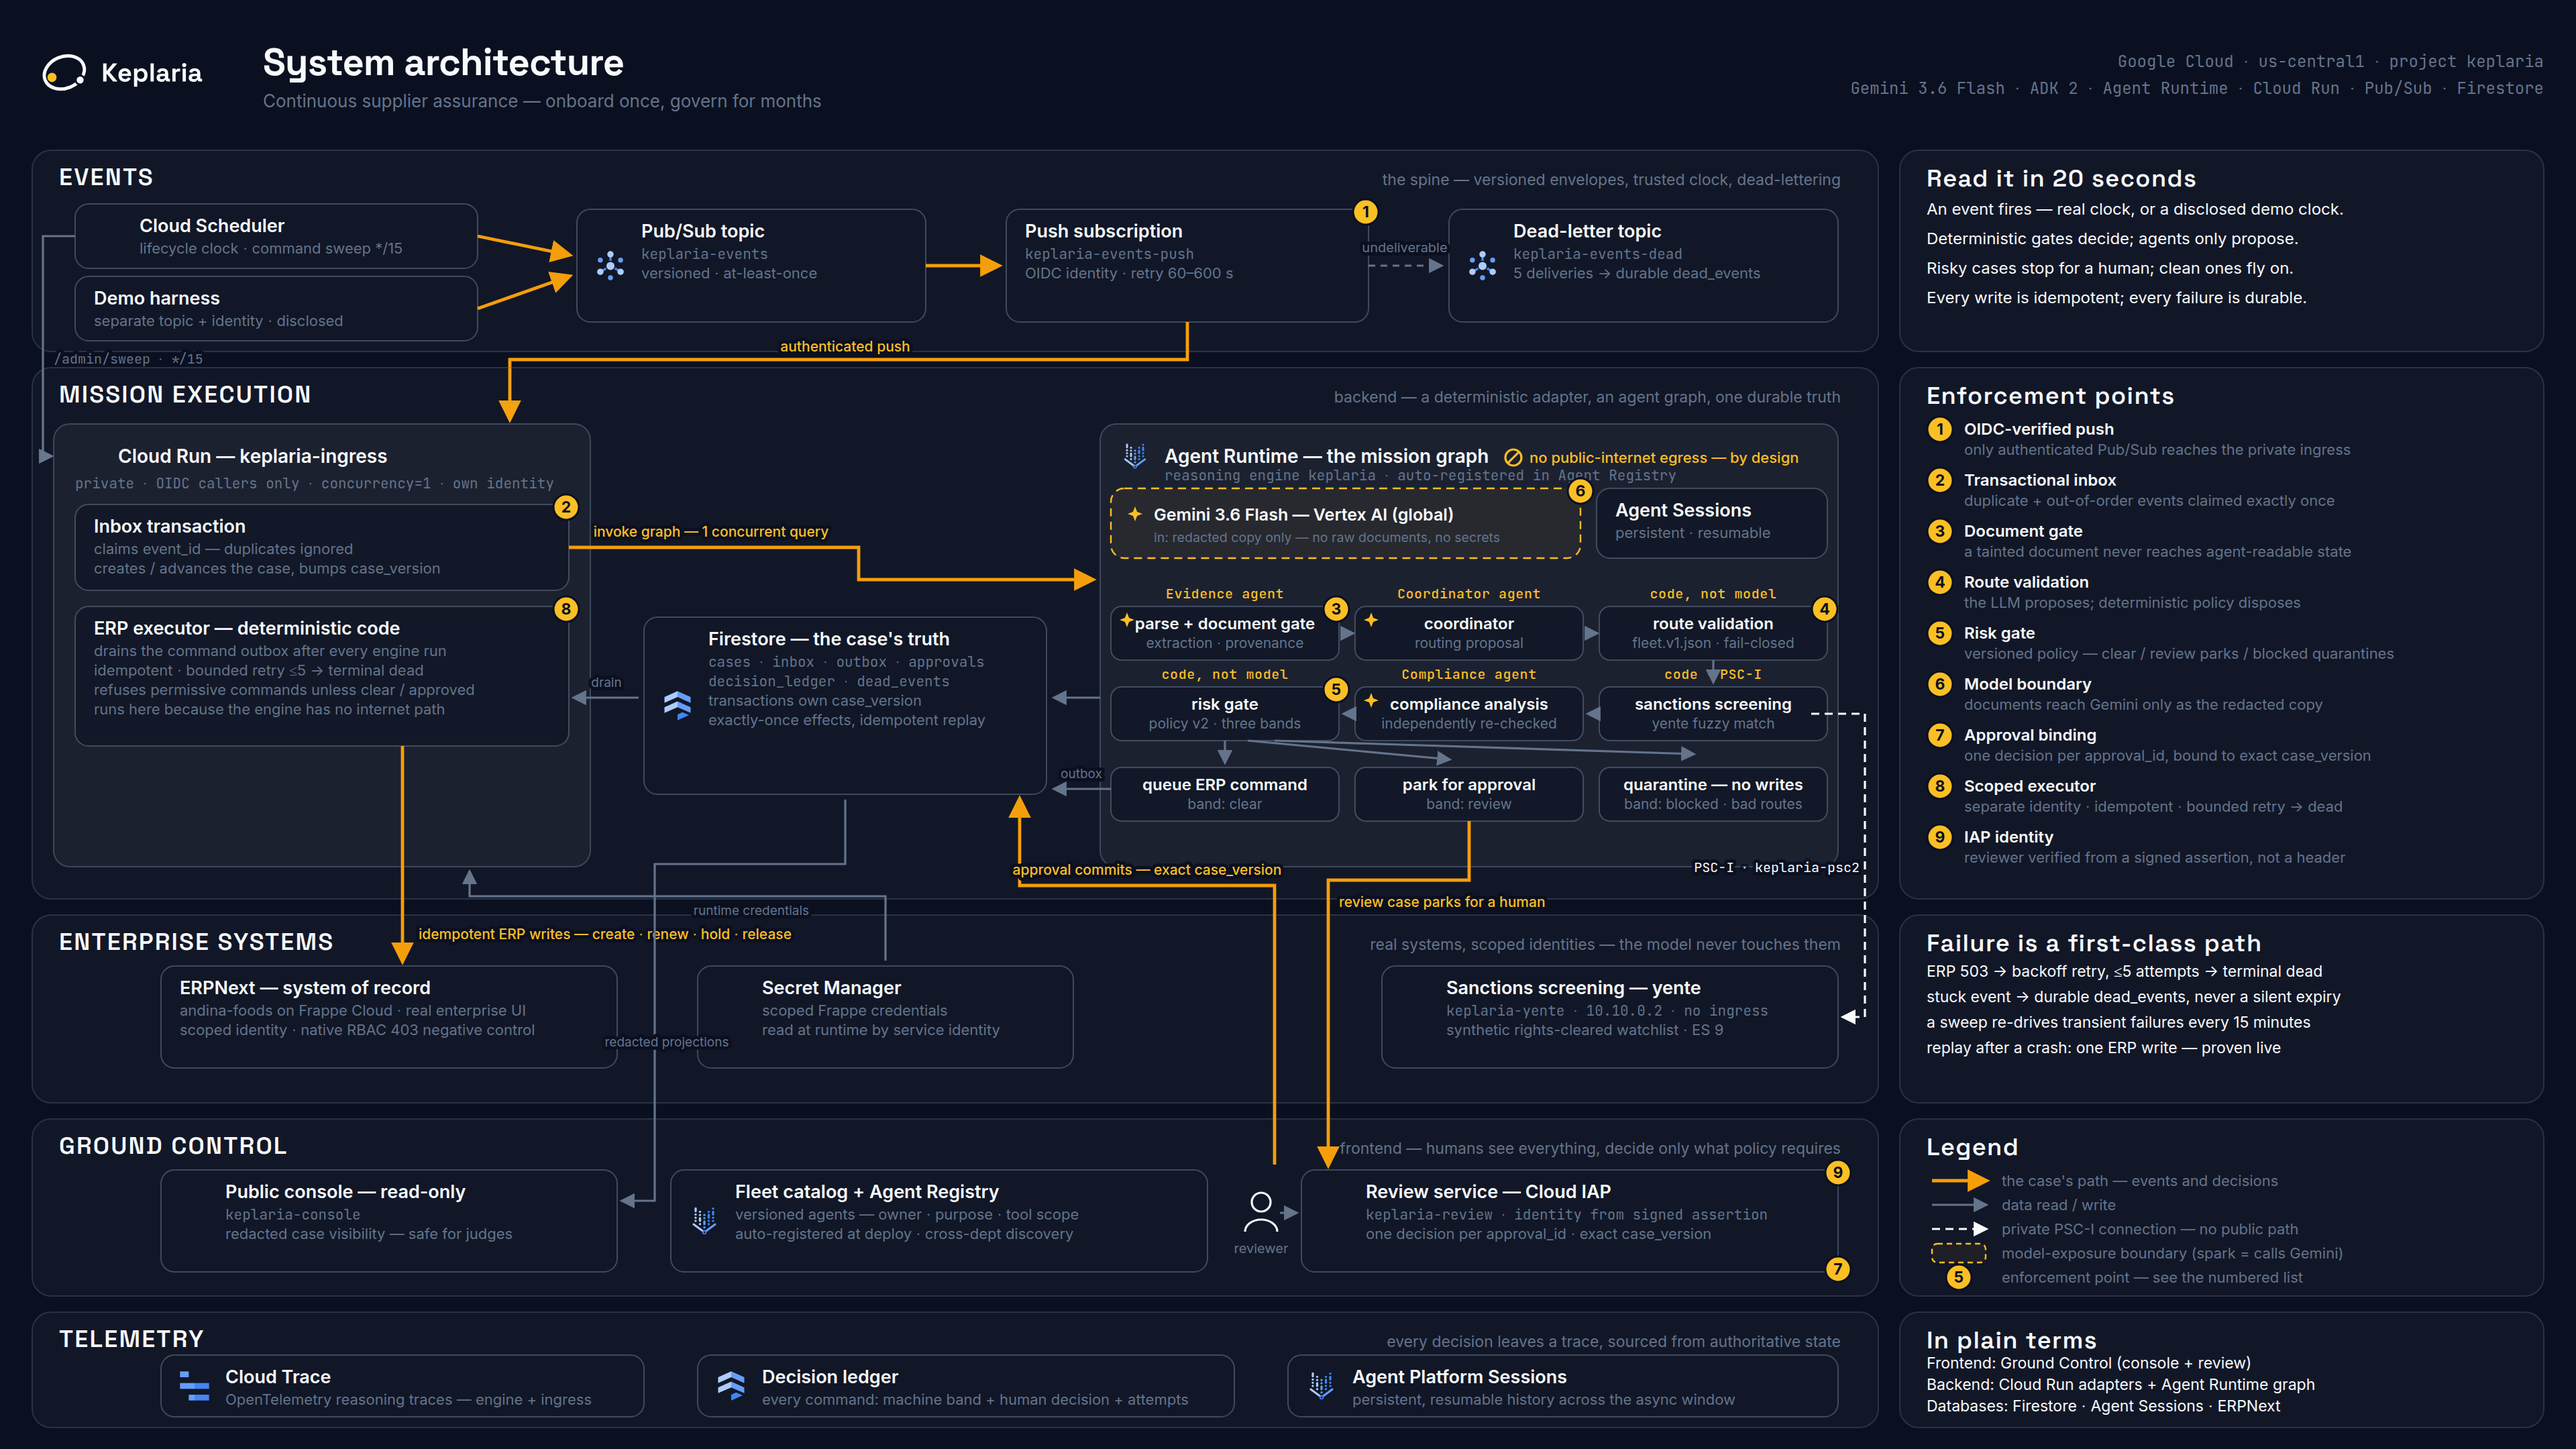
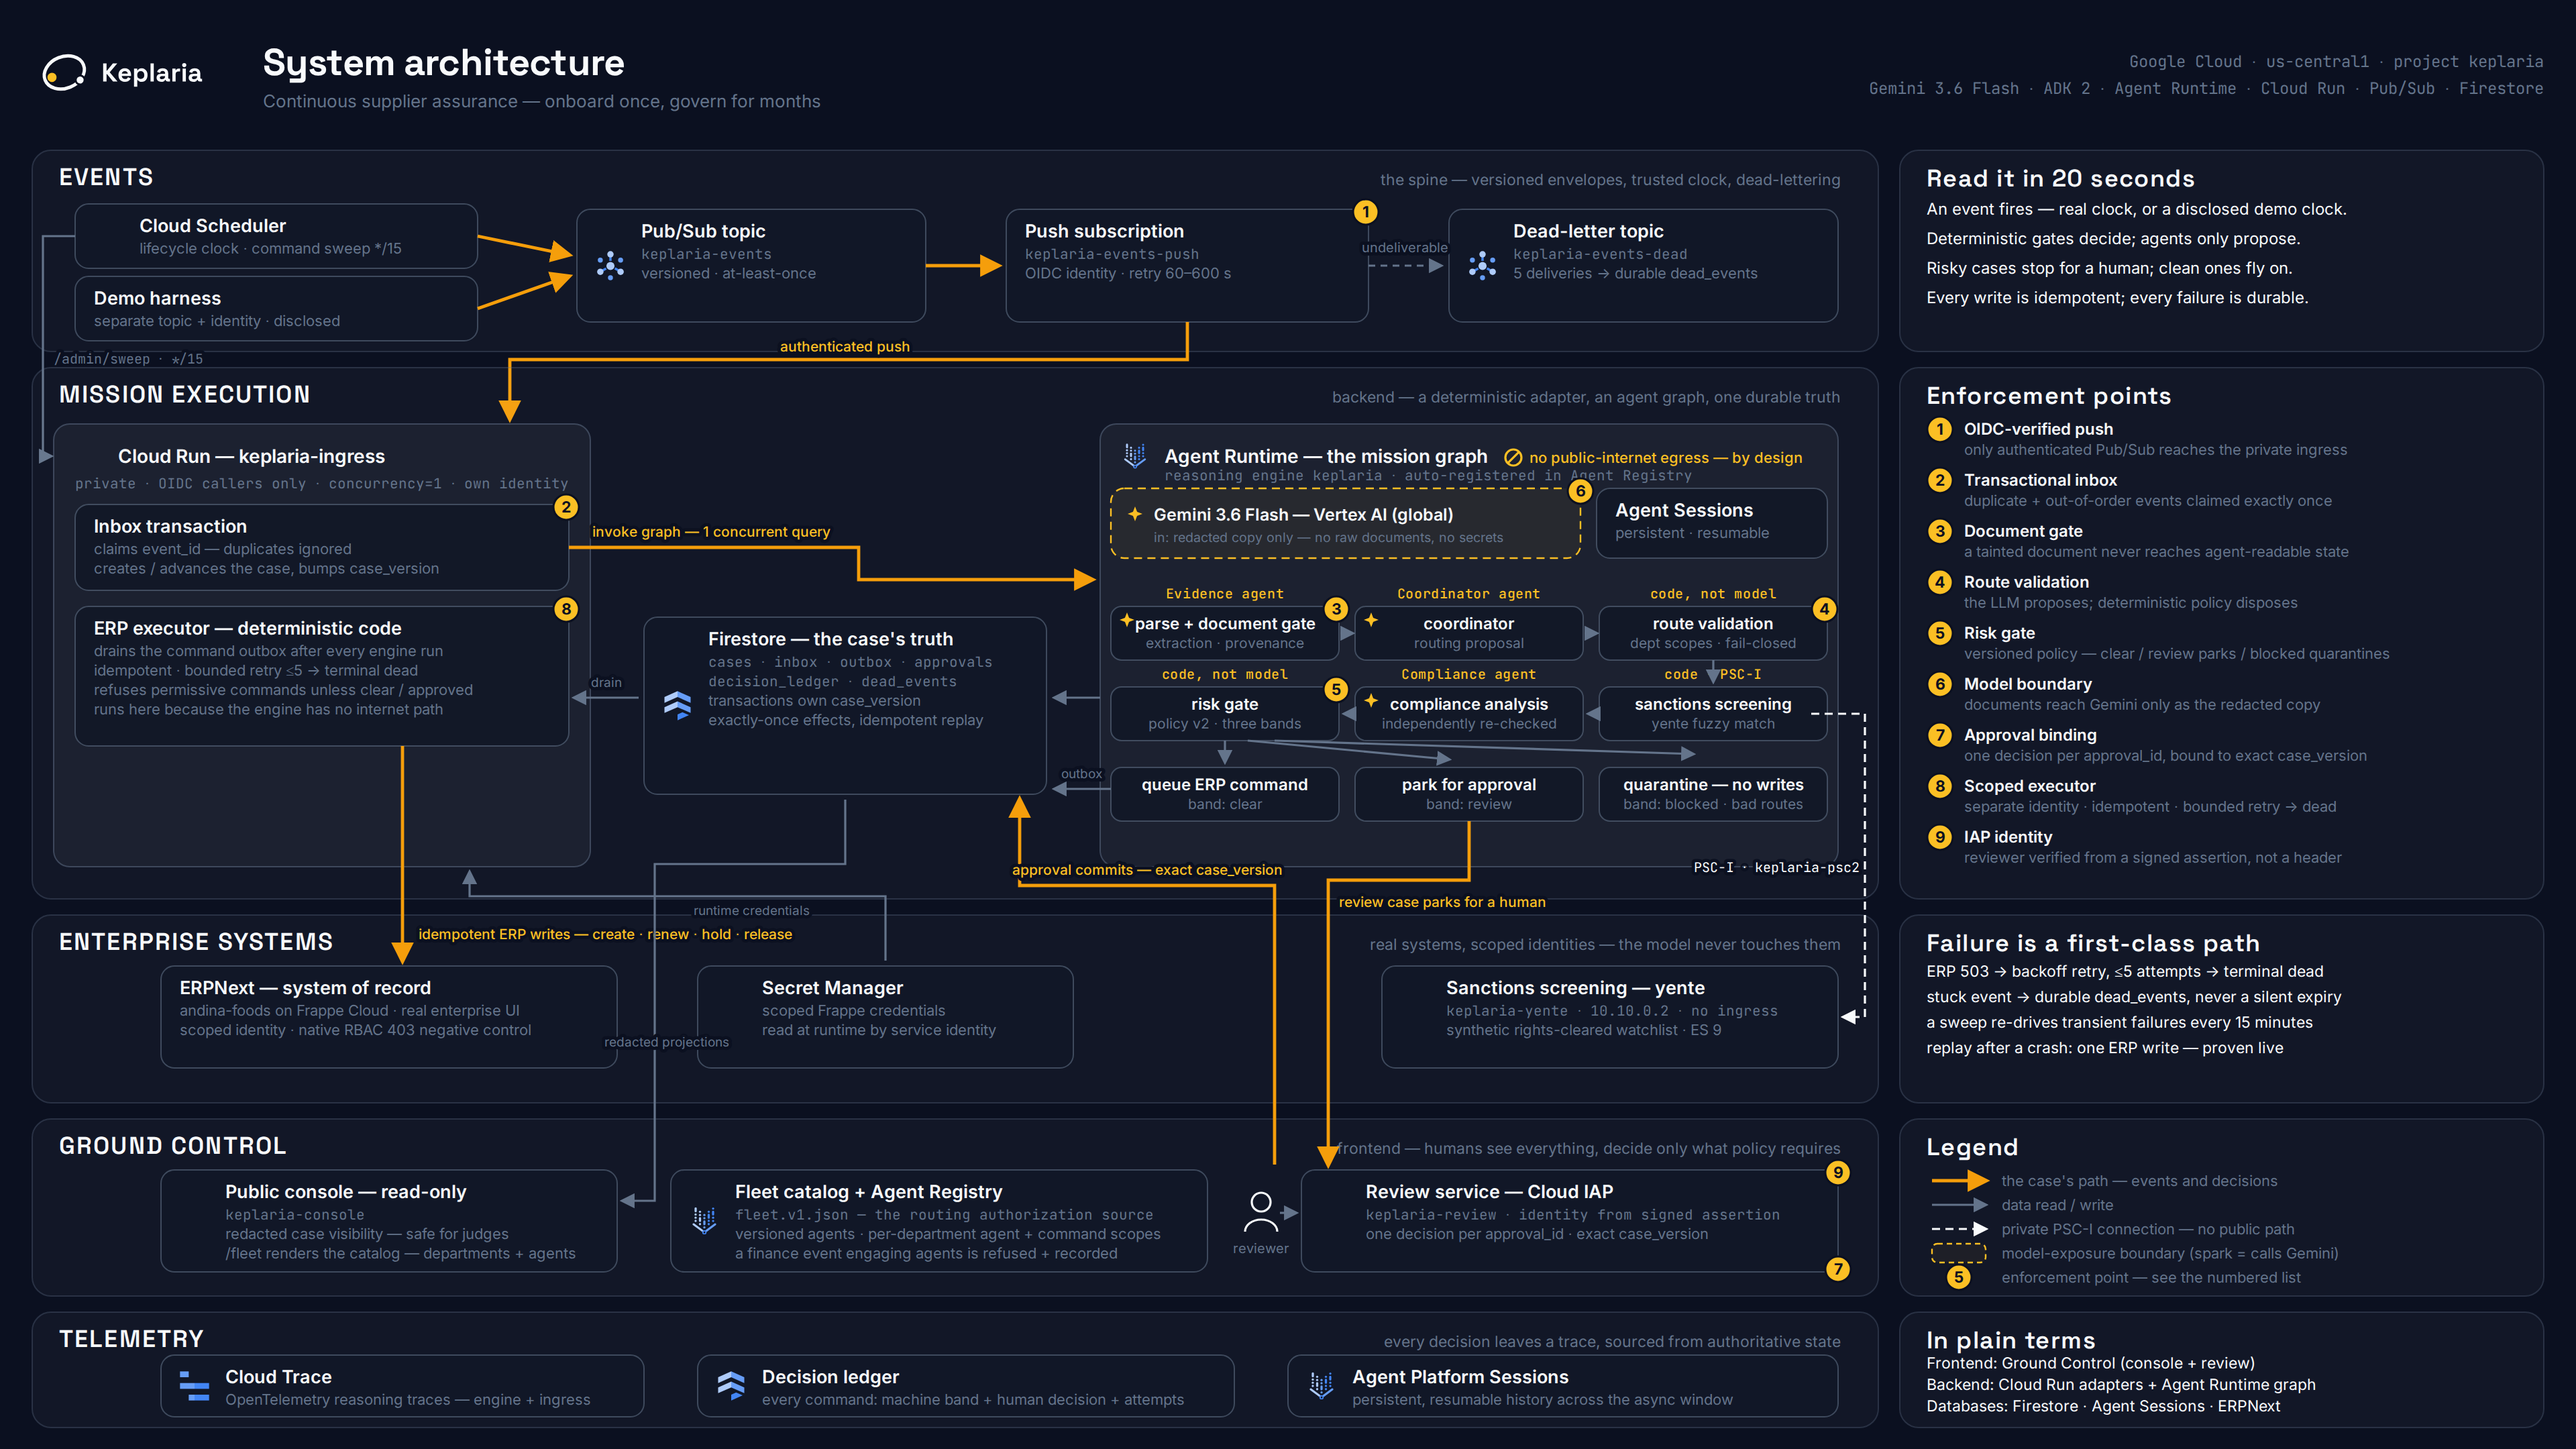
docs(architecture): draw department authorization and the /fleet view
The catalog chip now states what routing actually enforces: fleet.v1.json
is the routing authorization source, departments carry per-department agent
and command scopes, and a finance event engaging agents is refused and
recorded. The route-validation pill names the department scopes, and the
public console chip lists the /fleet catalog view. SVG rebuilt and 4K PNG
re-exported together.

diff --git a/docs/architecture/build.py b/docs/architecture/build.py
@@ -473,7 +473,7 @@ S.append(
 # pipeline pills — cols x828/1010/1192, w170
 S.append(pill(828, 452, 170, 40, "parse + document gate", "extraction · provenance", "Evidence agent", badge_n=3, sparked=True))
 S.append(pill(1010, 452, 170, 40, "coordinator", "routing proposal", "Coordinator agent", sparked=True))
-S.append(pill(1192, 452, 170, 40, "route validation", "fleet.v1.json · fail-closed", "code, not model", badge_n=4))
+S.append(pill(1192, 452, 170, 40, "route validation", "dept scopes · fail-closed", "code, not model", badge_n=4))
 S.append(pill(828, 512, 170, 40, "risk gate", "policy v2 · three bands", "code, not model", badge_n=5))
 S.append(pill(1010, 512, 170, 40, "compliance analysis", "independently re-checked", "Compliance agent", sparked=True))
 S.append(pill(1192, 512, 170, 40, "sanctions screening", "yente fuzzy match", "code · PSC-I"))
@@ -564,6 +564,7 @@ S.append(
         [
             ("keplaria-console", "mono"),
             ("redacted case visibility — safe for judges", "sub"),
+            ("/fleet renders the catalog — departments + agents", "sub"),
         ],
         icon="cloud_run",
     )
@@ -573,8 +574,9 @@ S.append(
         500, 872, 400, 76,
         "Fleet catalog + Agent Registry",
         [
-            ("versioned agents — owner · purpose · tool scope", "sub"),
-            ("auto-registered at deploy · cross-dept discovery", "sub"),
+            ("fleet.v1.json — the routing authorization source", "mono"),
+            ("versioned agents · per-department agent + command scopes", "sub"),
+            ("a finance event engaging agents is refused + recorded", "sub"),
         ],
         icon="vertexai",
     )
